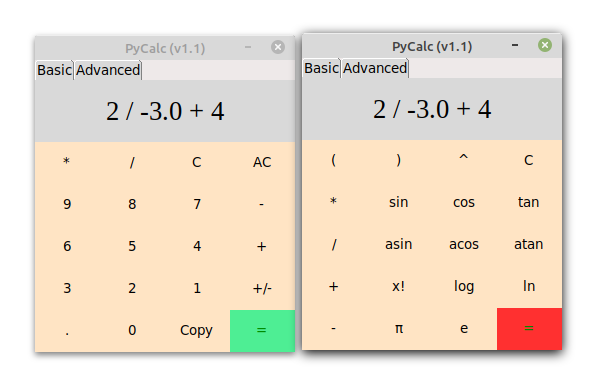
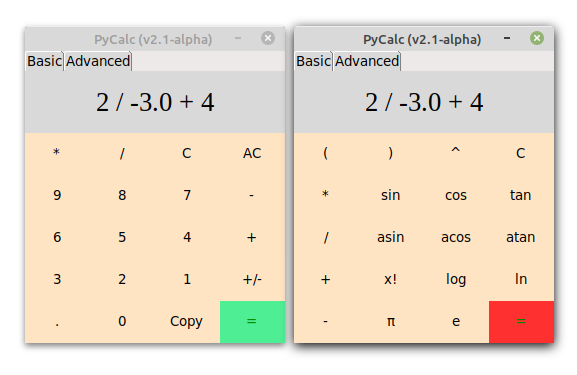
Update README for v2.0-alpha

diff --git a/gui.py b/gui.py
@@ -16,7 +16,7 @@ class GUI(Tk):
         ''' View initializer '''
         super().__init__()
         # Main window properties
-        self.title("PyCalc (v1.1)")
+        self.title("PyCalc (v2.1-alpha)")
         self.resizable(False, False)
         self.styler = ttk.Style()
         self._layout = ['*', '/', 'C', 'AC',
